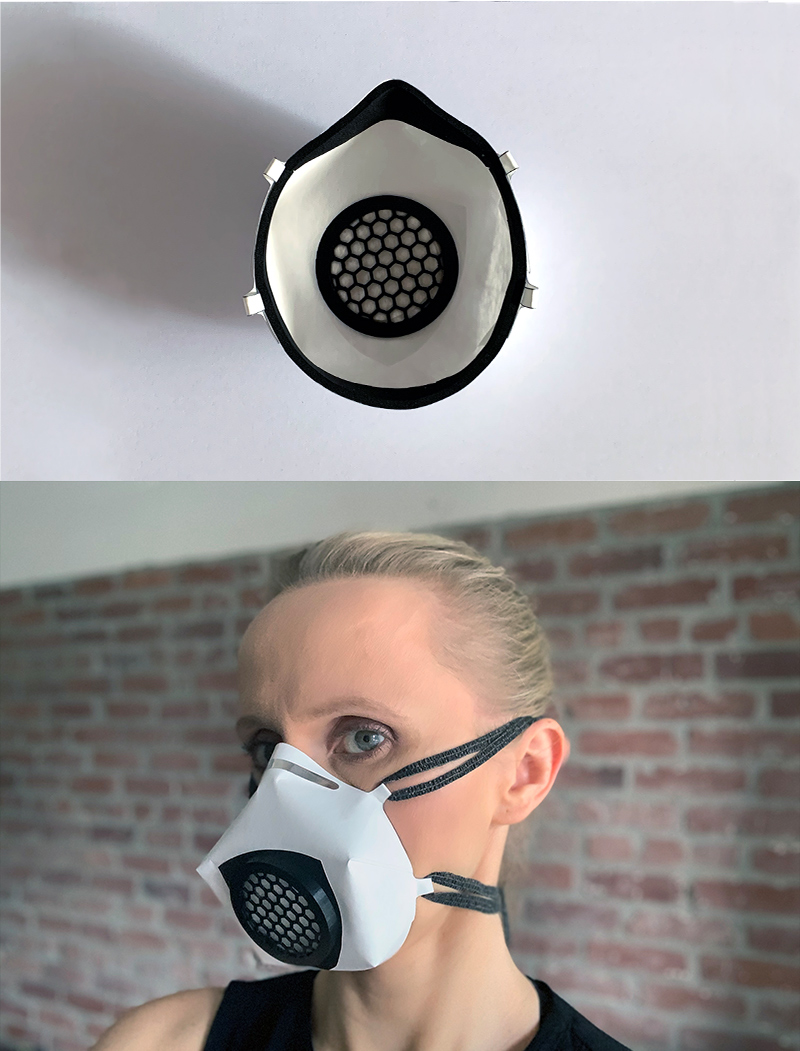
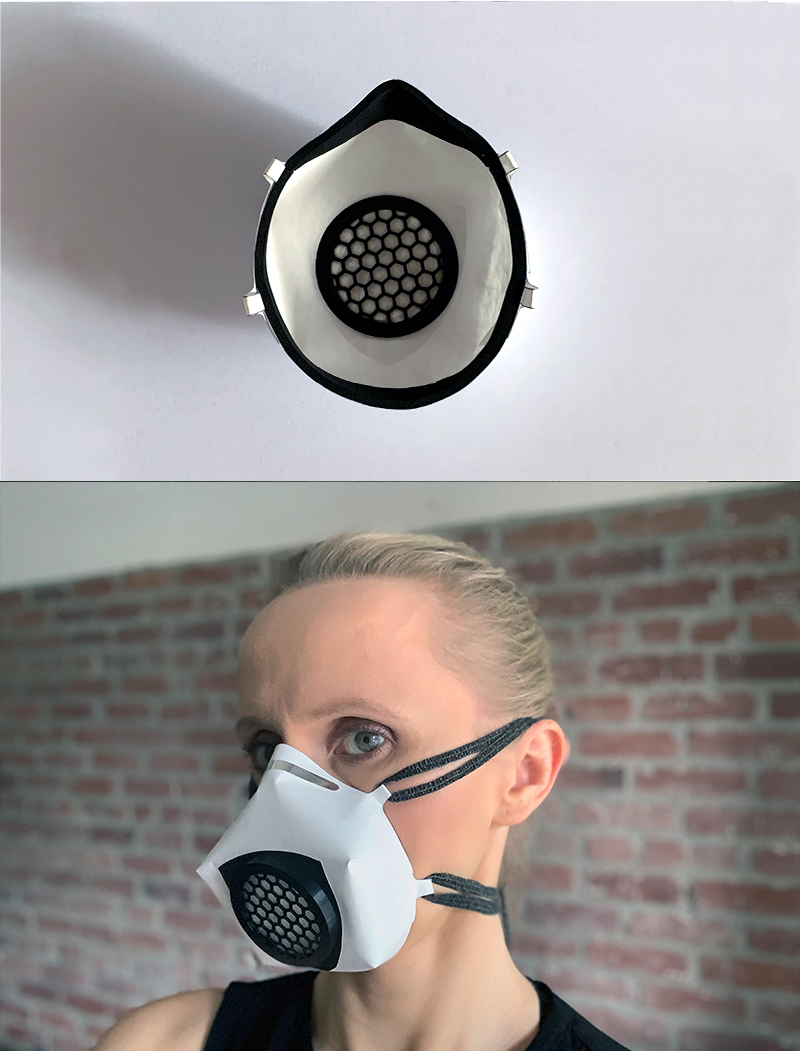
change photos and copy

diff --git a/index.html b/index.html
@@ -18,7 +18,7 @@
     <meta property="og:url"                content="https://basicrespirator.com" />
     <meta property="og:title"              content="Basic Respirator" />
     <meta property="og:description"        content="An open source, disposable, custom fit respirator designed for emergency use." />
-    <meta property="og:image"              content="https://basicrespirator.com/images/respirator_hero.jpg" />
+    <meta property="og:image"              content="https://basicrespirator.com/images/respirator_hero_bright.jpg" />
 
     <!--<link href="https://fonts.googleapis.com/css?family=Roboto:300,400,500,700,900" rel="stylesheet">-->
     <link href="https://fonts.googleapis.com/css2?family=Raleway:wght@300;400;500;600;700&display=swap" rel="stylesheet">
@@ -90,7 +90,7 @@
 
     <div class="site-blocks-cover" id="home-section">
       <div class="img-wrap">
-            <img src="images/respirator_hero.jpg" alt="Image">
+            <img src="images/respirator_hero_bright.jpg" alt="Image">
       </div>
       <div class="container">
         <div class="row">
@@ -411,7 +411,7 @@
                 <div class="pr-lg-5">
                   <h3>Contribute</h3>
                   <!-- <span class="mb-4 d-block">Looking for contributers</span> -->
-                  <p>This project needs more bright minds to speed up its development. Email <a href="mailto:basicrespirator@gmail.com">basicrespirator@gmail.com</a>, visit the <a href="https://github.com/BasicRespirator/basic">GitHub repository</a> or project page on Thingiverse to submit ideas of your own.</p>
+                  <p>This project needs more bright minds to speed up its development. Email <a href="mailto:basicrespirator@gmail.com">basicrespirator@gmail.com</a>, visit the <a href="https://github.com/BasicRespirator/basic">GitHub repository</a> or project page on <a href="https://www.thingiverse.com/thing:4265814">Thingiverse</a> if you'd like to contribute.</p>
                 </div>
               </div>
             </div>
